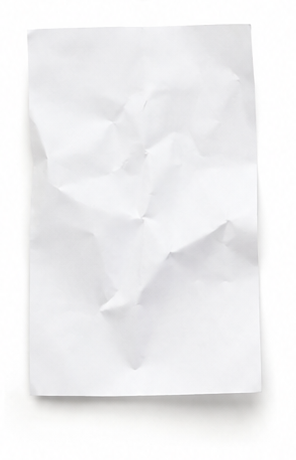
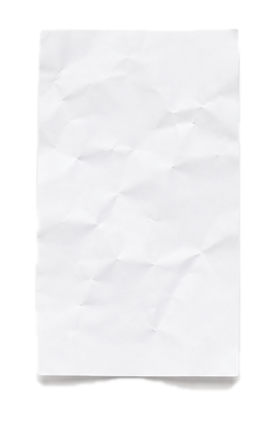
紙くしゃくしゃ: 新しい写真素材に差し替え、白背景を透過切り抜きに
ユーザーから新しい7段階の写真スプライトシートを受け取り、差し替えた。
また「カード型の枠」ではなく紙の形そのものを縁取りたいという要望に
応え、各写真の白背景をGrabCutで除去してアルファ透過PNGとして
書き出す方式に変更した。

- 新しいスプライトシート(1-5が上段、6-7が下段のレイアウト)から
  連結成分解析で各段の位置を特定し、7枚を個別に切り出し
  (assets/paper/paper-1.png〜paper-7.png)
- 単純な色距離の閾値/フラッドフィルでは紙と白背景の輝度が近すぎて
  背景除去が全面に漏れてしまったため、OpenCVのGrabCut
  (矩形初期化)で前景/背景を分離。紙自体の柔らかい落ち影も
  ある程度残るよう調整し、境界はガウシアンブラーで軽くフェザリング
- .paper-frame(白いカード背景)を廃止し、紙の輪郭に沿った
  drop-shadowフィルタ(くしゃくしゃ度に応じて濃く/大きく)を
  <img>に直接適用。これにより暗いステージ背景の上に紙の形その
  ものが浮かんで見えるようになった

Playwrightで7段階の切り替えとリセットが正しく動作し、コンソール
エラー0件であることを確認済み。

Claude-Session: https://claude.ai/code/session_01KvgUAhF1xgfeeaEL411PA2

diff --git a/css/style.css b/css/style.css
@@ -71,35 +71,27 @@ html, body {
   height: 70vmin;
   max-width: 320px;
   max-height: 400px;
+  display: flex;
+  align-items: center;
+  justify-content: center;
   transform: translate(-50%, -50%) scale(calc(1 - 0.12 * var(--crumple, 0))) rotate(calc(var(--crumple, 0) * 16deg));
   touch-action: none;
   cursor: pointer;
   transition: transform 150ms ease;
 }
 
-.paper-frame {
-  width: 100%;
-  height: 100%;
-  overflow: hidden;
-  border-radius: 18px;
-  background: #fbf8f2;
-  display: flex;
-  align-items: center;
-  justify-content: center;
-  box-shadow:
-    0 calc(10px + 22px * var(--crumple, 0)) calc(20px + 32px * var(--crumple, 0)) rgba(0, 0, 0, calc(0.32 + 0.25 * var(--crumple, 0))),
-    inset 0 0 0 1px rgba(0, 0, 0, 0.06);
-  transition: box-shadow 150ms ease;
-}
-
 .paper img {
   display: block;
-  width: 100%;
-  height: 100%;
+  max-width: 100%;
+  max-height: 100%;
+  width: auto;
+  height: auto;
   object-fit: contain;
+  filter: drop-shadow(0 calc(8px + 16px * var(--crumple, 0)) calc(14px + 24px * var(--crumple, 0)) rgba(0, 0, 0, calc(0.35 + 0.25 * var(--crumple, 0))));
   pointer-events: none;
   user-select: none;
   -webkit-user-drag: none;
+  transition: filter 150ms ease;
 }
 
 .paper.jitter {

diff --git a/js/game-paper.js b/js/game-paper.js
@@ -106,14 +106,10 @@
     paperEl = document.createElement('div');
     paperEl.className = 'paper';
 
-    var frameEl = document.createElement('div');
-    frameEl.className = 'paper-frame';
-    paperEl.appendChild(frameEl);
-
     imgEl = document.createElement('img');
     imgEl.alt = '';
     imgEl.draggable = false;
-    frameEl.appendChild(imgEl);
+    paperEl.appendChild(imgEl);
 
     stageEl.appendChild(paperEl);
     preloadStageImages();
